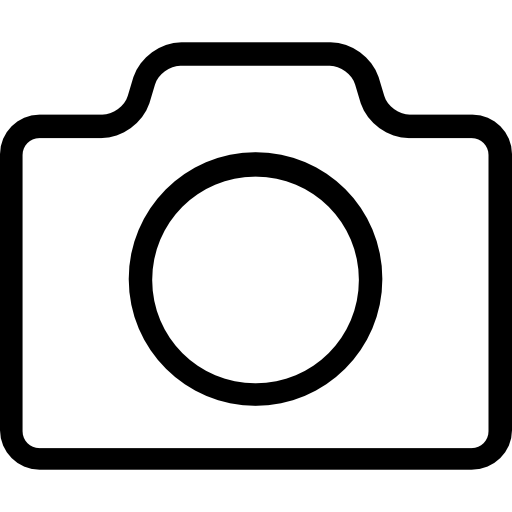
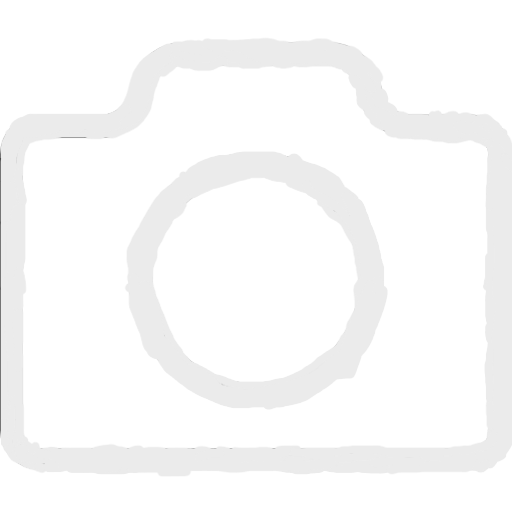
Ultima actualización

Changed region(s): [[0.0, 0.0625, 1.0, 0.9375], [0.25, 0.2812, 0.75, 0.8125]]

diff --git a/index.html b/index.html
@@ -6,6 +6,7 @@
     <title>WhatsApp </title>
     <link rel="shortcut icon" href="Iconos/logo-whatsapp.svg">
     <link rel="stylesheet" href="styles.css">
+    <link href='https://unpkg.com/boxicons@2.1.4/css/boxicons.min.css' rel='stylesheet'>
 </head>
 <body>
     <div class="whatsapp">
@@ -13,22 +14,22 @@
             <div class="whatsapp__titulo">
                 <span>WhatsApp</span>
                 <div>
-                    <a href="#"><img src="Iconos/search-outline.svg" alt="Busqueda"></a>
-                    <a href="#"><img src="Iconos/tres-puntos.png" alt="Puntos"></a>
+                    <a href="#"><i class="bx bx-search-alt-2" alt="Busqueda"></i></a>
+                    <a href="#"><i class="bx bx-dots-vertical-rounded" alt="Puntos"></i></a>
                     9:44p.m.
                 </div>
             </div>
         </header>
+        <main class="main">
         <nav class="whatsapp__nav">
             <a href="">
-                <img src="Iconos/camera-outline.svg" alt="Camara">
+                <img src="Iconos/camara.png" alt="Camara">
             </a>
-            <a href="#chats-Tab" class="items2">Chats</a>
-            <a href="#estados-Tab" class="items2">Estados</a>
-            <a href="#llamadas-Tab" class="items2">Llamadas</a>
+            <a href="#chats-Tab" class="itemss">Chats</a>
+            <a href="#estados-Tab" class="itemss">Estados</a>
+            <a href="#llamadas-Tab" class="itemss">Llamadas</a>
         </nav>
-        <main>
-
+     
             <div class="WhatsApp__boton">
                 <img src='Iconos/logo-whatsapp.svg'>
             </div>
@@ -36,7 +37,7 @@
         <div class="chats" id="chats-Tab">
         <div class="whatsapp__chats">
             <div class="chat">
-                <img src="Iconos/cris.jpeg" alt="Familia" class="chat__avatar">
+                <img src="Iconos/cris.jpeg" alt="Familia" class="avatar">
                 <div class="chat__detalles">
                     <div class="chat__nombre">FamiliaGm</div>
                     <div class="chat__Ultimo--Mensaje">Oliver: Mañana a las 10</div>
@@ -49,7 +50,7 @@
         </div>
         <div class="whatsapp__chats">
             <div class="chat">
-                <img src="Iconos/Sofia.jpg" alt="Sofia" class="chat__avatar">
+                <img src="Iconos/Sofia.jpg" alt="Sofia" class="avatar">
                 <div class="chat__detalles">
                     <div class="chat__nombre">Sofia</div>
                     <div class="chat__Ultimo--Mensaje">Sí clases en la tarde..</div>
@@ -59,7 +60,7 @@
         </div>
         <div class="whatsapp__chats">
             <div class="chat">
-                <img src="Iconos/DHL.jpg" alt="Domicilios" class="chat__avatar">
+                <img src="Iconos/DHL.jpg" alt="Domicilios" class="avatar">
                 <div class="chat__detalles">
                     <div class="chat__nombre">DHL</div>
                     <div class="chat__Ultimo--Mensaje">Su pedido llegará pronto!</div>
@@ -69,7 +70,7 @@
         </div>
         <div class="whatsapp__chats">
             <div class="chat">
-                <img src="Iconos/Majo.jpg" alt="Majo" class="chat__avatar">
+                <img src="Iconos/Majo.jpg" alt="Majo" class="avatar">
                 <div class="chat__detalles">
                     <div class="chat__nombre">Majo</div>
                     <div class="chat__Ultimo--Mensaje">T amo Juan</div>
@@ -79,7 +80,7 @@
         </div>
         <div class="whatsapp__chats">
             <div class="chat">
-                <img src="Iconos/Juan.jpg" alt="Juan" class="chat__avatar">
+                <img src="Iconos/Juan.jpg" alt="Juan" class="avatar">
                 <div class="chat__detalles">
                     <div class="chat__nombre">Juan</div>
                     <div class="chat__Ultimo--Mensaje">Sz prro, mañana llevo la moto al sena</div>
@@ -90,7 +91,7 @@
         </div>
         <div class="whatsapp__chats">
             <div class="chat">
-                <img src="Iconos/flores.jpg" alt="Florencia" class="chat__avatar">
+                <img src="Iconos/flores.jpg" alt="Florencia" class="avatar">
                 <div class="chat__detalles">
                     <div class="chat__nombre">Florencia</div>
                     <div class="chat__Ultimo--Mensaje-Verde">Escribiendo...</div>
@@ -101,7 +102,7 @@
 
         <div class="whatsapp__chats">
             <div class="chat">
-                <img src="Iconos/paloma.jpg" alt="Manrique" class="chat__avatar">
+                <img src="Iconos/paloma.jpg" alt="Manrique" class="avatar">
                 <div class="chat__detalles">
                     <div class="chat__nombre">Manrique</div>
                     <div class="chat__Ultimo--Mensaje">No puedo hoy, salgo tarde</div>
@@ -112,7 +113,7 @@
 
         <div class="whatsapp__chats">
             <div class="chat">
-                <img src="Iconos/szz.jpg" alt="TecnFisica" class="chat__avatar">
+                <img src="Iconos/szz.jpg" alt="TecnFisica" class="avatar">
                 <div class="chat__detalles">
                     <div class="chat__nombre">TecnFisica</div>
                     <div class="chat__Ultimo--Mensaje">Nos vemos a la 1pm</div>
@@ -123,7 +124,7 @@
 
         <div class="whatsapp__chats">
             <div class="chat">
-                <img src="Iconos/gato.png" alt="Sandro Meca" class="chat__avatar">
+                <img src="Iconos/gato.png" alt="Sandro Meca" class="avatar">
                 <div class="chat__detalles">
                     <div class="chat__nombre">Sandro Meca</div>
                     <div class="chat__Ultimo--Mensaje">Mañana Revisión!</div>
@@ -134,7 +135,7 @@
 
         <div class="whatsapp__chats">
             <div class="chat">
-                <img src="Iconos/Eduardo.jpg" alt="Eduardo" class="chat__avatar">
+                <img src="Iconos/Eduardo.jpg" alt="Eduardo" class="avatar">
                 <div class="chat__detalles">
                     <div class="chat__nombre">Eduardo Tecn</div>
                     <div class="chat__Ultimo--Mensaje">Quien tiene el carro?</div>
@@ -145,7 +146,7 @@
 
         <div class="whatsapp__chats">
             <div class="chat">
-                <img src="Iconos/Mario.jpg" alt="MarioSM" class="chat__avatar">
+                <img src="Iconos/Mario.jpg" alt="MarioSM" class="avatar">
                 <div class="chat__detalles">
                     <div class="chat__nombre">Mario SM</div>
                     <div class="chat__Ultimo--Mensaje">Hoy tenemos fisica?</div>
@@ -156,7 +157,7 @@
 
         <div class="whatsapp__chats">
             <div class="chat">
-                <img src="Iconos/Jackeline.jpg" alt="Sena2" class="chat__avatar">
+                <img src="Iconos/Jackeline.jpg" alt="Sena2" class="avatar">
                 <div class="chat__detalles">
                     <div class="chat__nombre">Jackeline Cimi</div>
                     <div class="chat__Ultimo--Mensaje">Para mañana cita psicologia</div>
@@ -167,7 +168,7 @@
 
         <div class="whatsapp__chats">
             <div class="chat">
-                <img src="Iconos/Monroy.jpg" alt="Monroy" class="chat__avatar">
+                <img src="Iconos/Monroy.jpg" alt="Monroy" class="avatar">
                 <div class="chat__detalles">
                     <div class="chat__nombre">Monroy</div>
                     <div class="chat__Ultimo--Mensaje">Mañana 2pa2</div>
@@ -178,7 +179,7 @@
 
         <div class="whatsapp__chats">
             <div class="chat">
-                <img src="Iconos/images.png" alt="John" class="chat__avatar">
+                <img src="Iconos/images.png" alt="John" class="avatar">
                 <div class="chat__detalles">
                     <div class="chat__nombre">Jonh Becerra</div>
                     <div class="chat__Ultimo--Mensaje">Plan De Mejoramiento</div>
@@ -190,7 +191,7 @@
     <div class="estados-tab estados__tab" id="estados-Tab">
                 <div class="estados-lista">
                     <div class="estados-item">
-                        <img src="Iconos/definitiva.jpeg" alt="" class="foto foto__estados">
+                        <img src="Iconos/definitiva.jpeg" alt="" class="avatar">
                         <div class="estados-informa">
                             <p class="estados-nombre">Mis Actualizaciones</p>
                             <p class="estado-tiempo">Presiona Para Agregar Actualizaciones</p>
@@ -200,7 +201,7 @@
                 <p>Actualizaciones Recientes</p>   
                 <div class="estados-lista">
                     <div class="estados-item">
-                        <img src="Iconos/Jackeline.jpg" alt="" class="foto">
+                        <img src="Iconos/Jackeline.jpg" alt="" class="avatar">
                         <div class="estados-informa">
                             <p class="estados-nombre">Jackeline</p>
                             <p class="estado-tiempo">Hace unos segundos</p>
@@ -211,7 +212,7 @@
             <div class="llamadas-tab" id="llamadas-Tab">
                 <div class="llamadas-lista">
                     <div class="llamadas-item">
-                        <img src="Iconos/Majo.jpg" alt="" class="foto">
+                        <img src="Iconos/Majo.jpg" alt="" class="avatar">
                         <div class="llamadas-informa">
                             <p class="llamadas-nombre">Majo</p>
                             <p class="llamadas-tiempo">Hace 6 horas</p>
@@ -219,6 +220,7 @@
                     </div>
                 </div>
             </div>
+        </main>
     </div>
 </body>
 </html>

diff --git a/styles.css b/styles.css
@@ -9,14 +9,14 @@
     --Azul: #0b0894;
     --Negro: #000000;
     --Verdewsp: #075E54;
-    --chat: #128C7E;
     --Rojo: #7f0505;
     --Blanco: #fff;
     --Gris: #5c5c5c;
     --Menta: #aefff4;
     --Verde: #5cca1d;
 }
-  
+
+
 body {
   display: block;
   font-family: Arial, sans-serif;
@@ -35,7 +35,6 @@ body {
   border-radius: 50%;
   padding: 10px;
   color: var(--Blanco);
-  text-decoration: none;
   font-size: 20px;
   display: flex;
   align-items: center;
@@ -45,6 +44,11 @@ body {
   margin-left: 320px;
   margin-top: 80px;
   bottom: 20px;
+}
+
+.WhatsApp__boton:hover {
+  background-color: var(--Blanco);
+  cursor: pointer
 }
 
 .whatsapp {
@@ -60,10 +64,18 @@ body {
   list-style: none;
 }
 
+.itemss{
+  text-decoration: none;
+  color: var(--Blanco);
+  font-size: 18px;
+  margin-left: 10px;
+}
+
 .whatsapp__inicio {
-  background-color: var(--Verdewsp);
+  background-color: var(--Negro);
   padding: 10px;
-  
+  text-decoration: none;
+  list-style: none;
 }
 
 img{
@@ -80,6 +92,7 @@ img{
   font-weight: bold;
   text-decoration: none;
   list-style: none;
+  color: var(--Blanco);
 }
 
 .whatsapp__chats {
@@ -110,6 +123,14 @@ cursor: pointer
   overflow-y: auto;
 }
 
+.chats {
+  display: none;
+}
+
+.chats:target {
+  display: block;
+}
+
 .notificacion{
   display: flex;
   background-color: var(--Verde);
@@ -122,7 +143,7 @@ cursor: pointer
   align-items: center;
 }
 
-.chat__avatar {
+.avatar {
   width: 50px;
   height: 50px;
   border-radius: 50%;
@@ -160,7 +181,7 @@ cursor: pointer
 .whatsapp__nav {
   display: flex;
   justify-content: space-around;
-  background-color: var(--chat);
+  background-color: var(--Negro);
   padding-bottom: 5px;
   transition: color 0.3s ease, border-bottom 0.3s ease;
 }
@@ -187,7 +208,14 @@ cursor: pointer;
   display: flex;
   align-items: center;
   cursor: pointer;
+}
 
+.estados-lista{
+  background-color: var(--Blanco);
+}
+
+.estados-lista:hover{
+  background-color: var(--Menta);
 }
 
 .estado-tiempo{
@@ -216,6 +244,7 @@ cursor: pointer;
   background-color: var(--Negro);
   flex-wrap: wrap;
   align-content: stretch;
+  margin-bottom: 10px;
 }
 
 .estados-item, .llamadas-item {
@@ -241,46 +270,26 @@ cursor: pointer;
   display: none;
 }
 
-.llamadas-tab {
-  display: none;
-}
-
 .estados-tab:target {
   display: block;
-}
-
-.llamadas-tab:target {
-  display: block;
-}
-
-.chats {
-  display: none;
-}
-
-.chats:target {
-  display: block;
-}
-
-.estados-tab, .llamadas-tab {
-  display: none;
 }
 
 :target {
   display: block;
 }
 
-.estados-lista:hover{
-  background-color: var(--Menta);
+.llamadas-tab {
+  display: none;
+}
+
+.llamadas-tab:target {
+  display: block;
 }
 
 .llamadas-lista{
   margin-bottom: 500px;
 }
 
-.estados-item--margin{
-  margin-bottom: 200px;
-}
-
-.llamadas-tab:hover{
+.llamadas-lista:hover{
   background-color: var(--Menta);
 }
